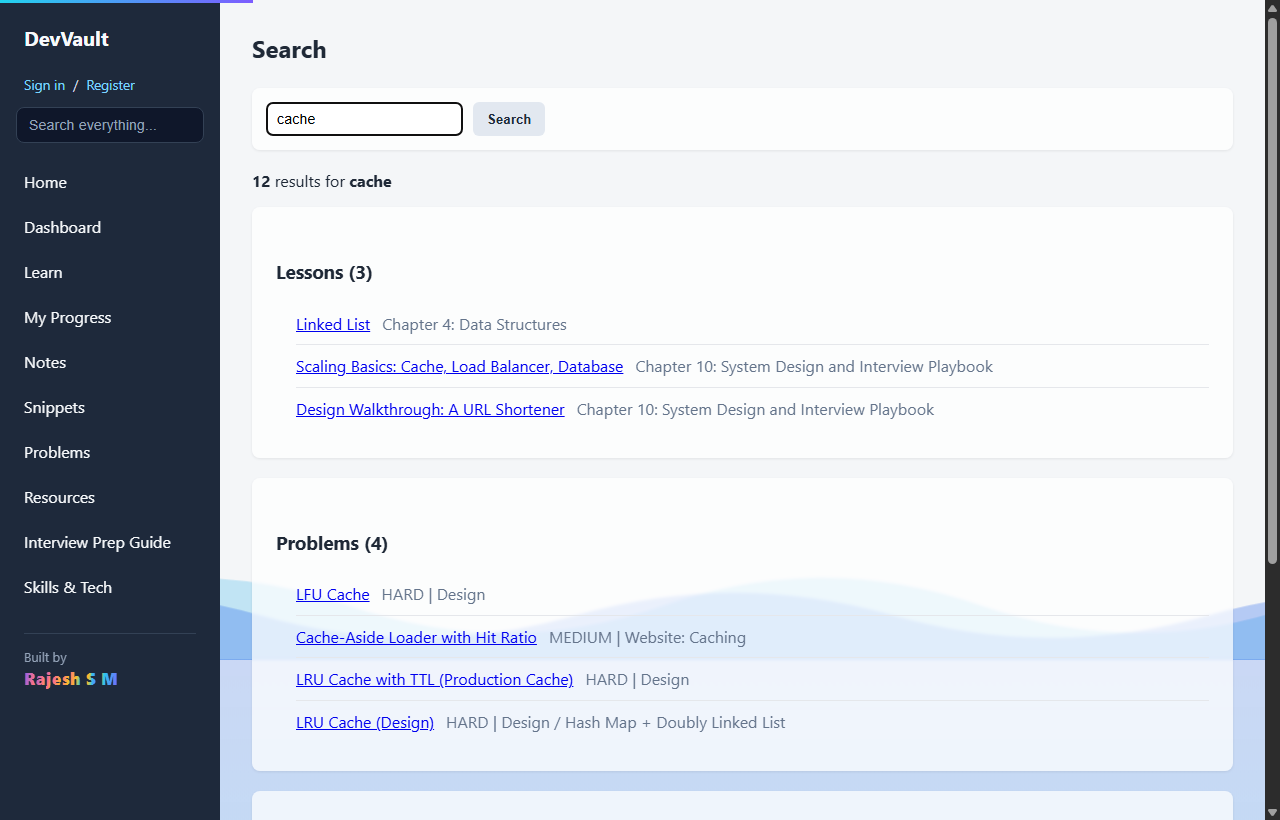
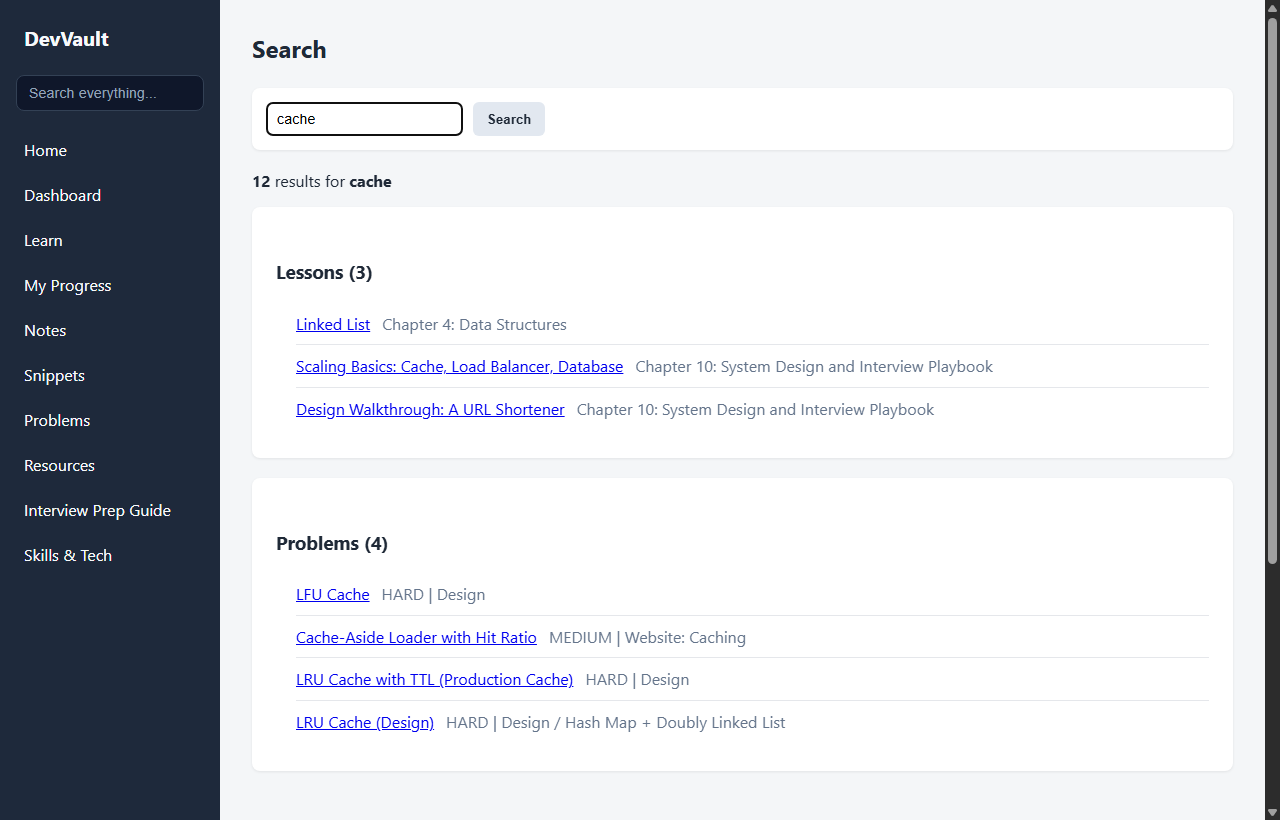
Show Sign in/Register, animated name and tide animation on the welcome page only

diff --git a/src/main/resources/templates/fragments/layout.html b/src/main/resources/templates/fragments/layout.html
@@ -10,8 +10,6 @@
         <script th:src="@{/js/tide.js}" defer></script>
         <link rel="stylesheet" th:href="@{/css/progress.css}">
         <script th:src="@{/js/progress.js}" defer></script>
-        <link rel="stylesheet" th:href="@{/css/signature.css}">
-        <script th:src="@{/js/signature.js}" defer></script>
         <meta name="author" content="Rajesh S M">
         <meta name="devvault-user" th:if="${currentUser != null}" th:content="${currentUser}">
         <meta name="_csrf" th:if="${_csrf != null}" th:content="${_csrf.token}">
@@ -24,9 +22,6 @@
         <div class="sidebar-user" th:if="${currentUser != null}">
             <span>Signed in as <strong th:text="${currentUser}"></strong></span>
             <form th:action="@{/logout}" method="post"><button type="submit" class="link-button">Sign out</button></form>
-        </div>
-        <div class="sidebar-user" th:if="${currentUser == null}">
-            <a href="/login">Sign in</a> <span>/</span> <a href="/register">Register</a>
         </div>
         <form class="sidebar-search" action="/search" method="get" role="search">
             <input type="search" name="q" placeholder="Search everything..." aria-label="Search everything" minlength="2">
@@ -47,7 +42,6 @@
             <strong>Read-only demo</strong>
             <span>You can browse and practise, but adding, editing and deleting are disabled.</span>
         </div>
-        <div class="sidebar-by">Built by <span class="signature" data-signature>Rajesh S M</span></div>
     </nav>
 </body>
 </html>

diff --git a/src/main/resources/static/css/tide.css b/src/main/resources/static/css/tide.css
@@ -18,16 +18,6 @@ body.welcome {
     --tide-fill: linear-gradient(180deg, rgba(34, 211, 238, 0.16), rgba(124, 92, 255, 0.22));
 }
 
-/* Let the water show through the white cards and tables on the regular pages. */
-body:not(.welcome) .data-table,
-body:not(.welcome) .guide-section,
-body:not(.welcome) .chapter,
-body:not(.welcome) .stat-card,
-body:not(.welcome) .filter-bar {
-    background-color: rgba(255, 255, 255, 0.72);
-    backdrop-filter: blur(1.5px);
-}
-
 /* Keep real content above the water. */
 .app-layout,
 body.welcome main,

diff --git a/src/main/resources/templates/about.html b/src/main/resources/templates/about.html
@@ -9,7 +9,6 @@
         <div class="content-header">
             <h2>Skills &amp; Tech Behind DevVault</h2>
         </div>
-        <p class="byline">Designed &amp; built by <span class="signature big" data-signature>Rajesh S M</span></p>
         <p class="muted">
             DevVault is a full-stack Java application, not just a list of problems. This page shows what it is
             built with, which engineering skills each part demonstrates, and how to talk about it in an interview.

diff --git a/src/main/resources/static/js/tide.js b/src/main/resources/static/js/tide.js
@@ -101,8 +101,10 @@
             if (reduceMotion) {
                 return;
             }
-            buildTide();
-            trackScroll();
+            if (document.body.classList.contains('welcome')) {
+                buildTide();                  // the rising water and progress line are for the welcome page only
+                trackScroll();
+            }
             reveal();
         } catch (e) {
             // Decorative only: ignore.

diff --git a/README.md b/README.md
@@ -38,7 +38,7 @@ Most interview-prep sites show you a solution and stop. DevVault is built around
 - **My Progress:** "Mark as done" on lessons and problems. Stored in the browser when signed out; stored on the server when signed in, with automatic merge on first sign-in.
 - **Accounts:** registration and sign-in with BCrypt-hashed passwords, CSRF protection and per-user progress.
 - **One-click practice status** (not started / learning / learned / needs revision) feeding the dashboard's "Needs Revision" list.
-- **Scroll-driven "tide" animation**, reveal-on-scroll effects and an animated signature (all disabled for visitors who prefer reduced motion).
+- **Welcome page extras:** a scroll-driven "tide" animation (water that rises as you scroll), an animated signature and the Sign in / Register buttons. Other pages use a subtle fade-in only. Motion is disabled for visitors who prefer reduced motion.
 - **Responsive layout:** the sidebar becomes a swipeable top bar on phones.
 - **REST API** under `/api` for notes, problems, resources and snippets, with consistent JSON errors.
 
